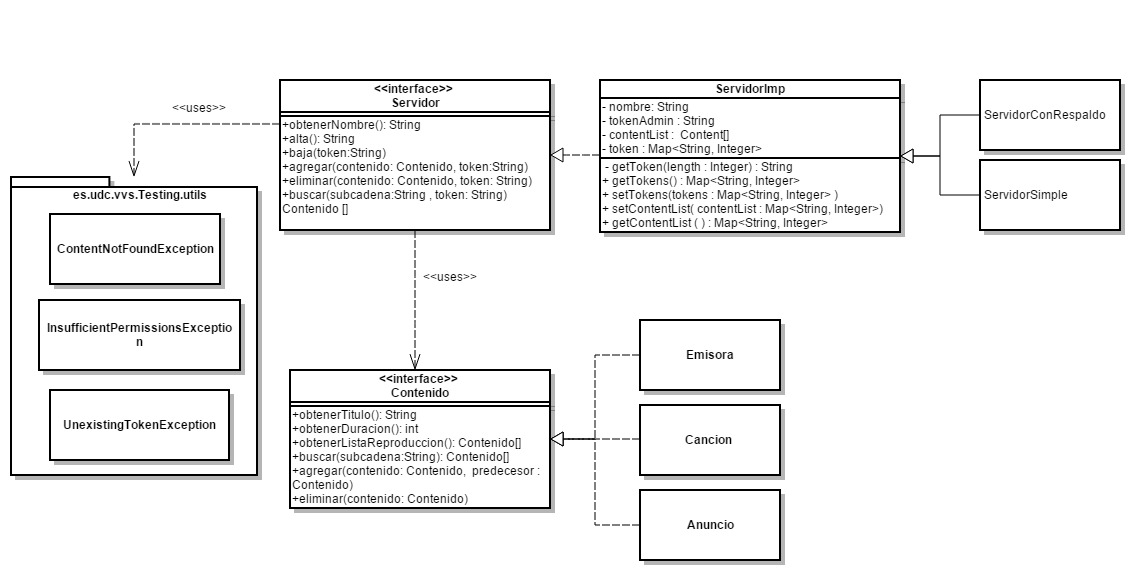
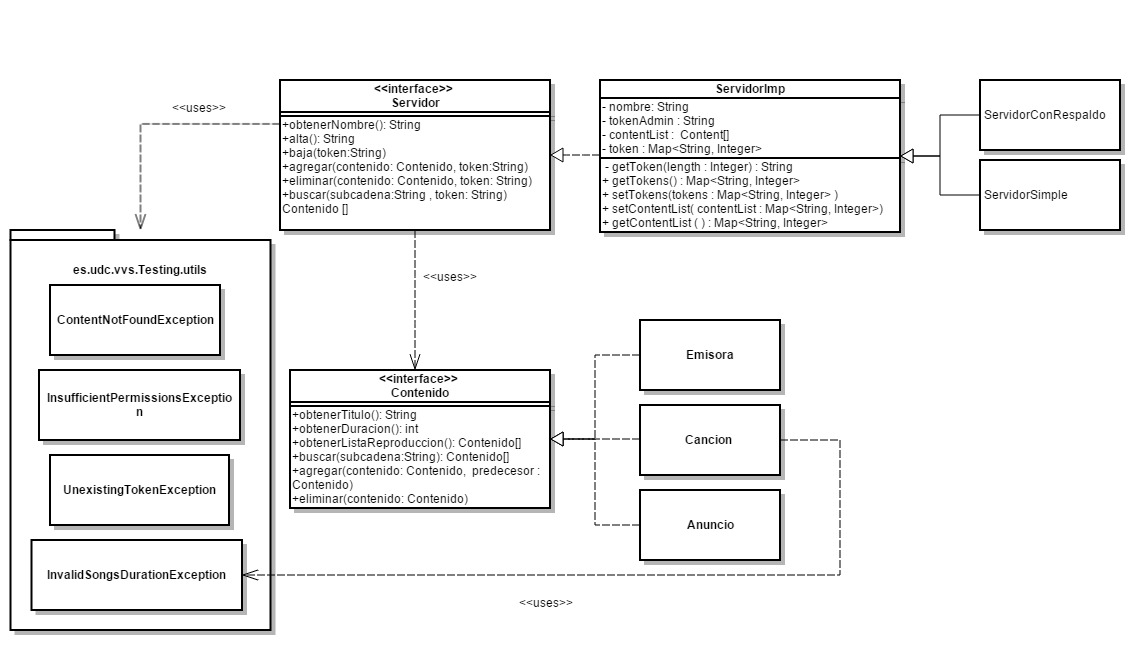
Test actualizados, uml actualizado

diff --git a/src/test/java/es/udc/vvsTesting/contenido/ContentQuickcheckTest.java b/src/test/java/es/udc/vvsTesting/contenido/ContentQuickcheckTest.java
@@ -5,6 +5,7 @@ import java.util.List;
 
 import org.junit.Test;
 
+import es.udc.vvsTesting.utils.InvalidSongsDurationException;
 import net.java.quickcheck.Generator;
 import net.java.quickcheck.characteristic.Classification;
 import net.java.quickcheck.generator.iterable.Iterables;
@@ -27,12 +28,12 @@ public class ContentQuickcheckTest  {
 	}
 	
 	@Test
-	public void agregarConPrecedenteNuloTest() {
+	public void agregarConPrecedenteNuloTest() throws InvalidSongsDurationException {
 		
     	Classification c = new Classification();
 		for (Contenido contenido : Iterables.toIterable(new ContenidoGenerator())){
 			
-    	    Integer anyNumber = integers(0,100).next();
+    	    Integer anyNumber = integers(1,100).next();
 			String titulo=strings("abc",1,4).next();
 			Cancion cancion=new Cancion(titulo, anyNumber);
 			if (contenido.obtenerListaReproduccion().isEmpty()) {
@@ -52,7 +53,7 @@ public class ContentQuickcheckTest  {
     	}
 	}
 	@Test
-	public void agregarConPrecedenteTest() {
+	public void agregarConPrecedenteTest() throws InvalidSongsDurationException {
     	Classification c = new Classification();		
 		for (Contenido contenido : Iterables.toIterable(new ContenidoGenerator2())){
 			
@@ -86,7 +87,7 @@ public class ContentQuickcheckTest  {
 
 	
 	@Test
-	public void eliminareTest() {
+	public void eliminareTest() throws InvalidSongsDurationException {
 		Classification c = new Classification();		
 		for (Contenido contenido : Iterables.toIterable(new ContenidoGenerator2())){
 			
@@ -125,11 +126,18 @@ class ContenidoGenerator implements Generator<Contenido> {
 
 	public Contenido next() {
 	    List<String> lista = lGen.next();
-    	Generator<Integer> iGen = integers(0,100);
+    	Generator<Integer> iGen = integers(1,100);
 		Emisora emisora=new Emisora(strings().next());
 		for (String any : lista) { 
-			Cancion cancion =new Cancion(any, iGen.next());
-			emisora.agregar(cancion, null);			
+			Cancion cancion;
+			try {
+				cancion = new Cancion(any, iGen.next());
+				emisora.agregar(cancion, null);
+			} catch (InvalidSongsDurationException e) {
+				// TODO Auto-generated catch block
+				e.printStackTrace();
+			}
+						
 		} 	
 		return emisora;		
 	}
@@ -144,8 +152,15 @@ class ContenidoGenerator2 implements Generator<Contenido> {
     	Generator<Integer> iGen = integers(1,10);
 		Emisora emisora=new Emisora(strings().next());
 		for (String any : lista) { 
-			Cancion cancion =new Cancion(any, iGen.next());
-			emisora.agregar(cancion, null);			
+			Cancion cancion;
+			try {
+				cancion = new Cancion(any, iGen.next());
+				emisora.agregar(cancion, null);	
+			} catch (InvalidSongsDurationException e) {
+				// TODO Auto-generated catch block
+				e.printStackTrace();
+			}
+					
 		} 	
 		return emisora;		
 	}
